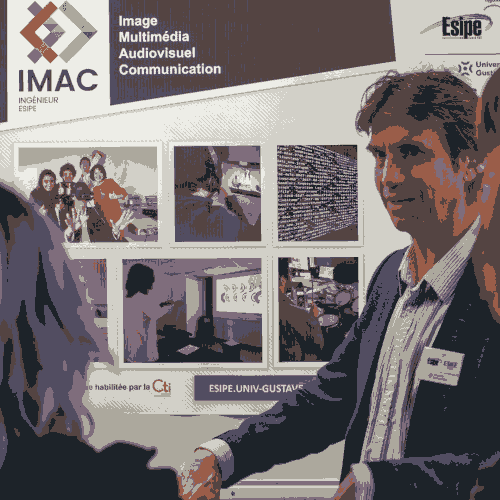
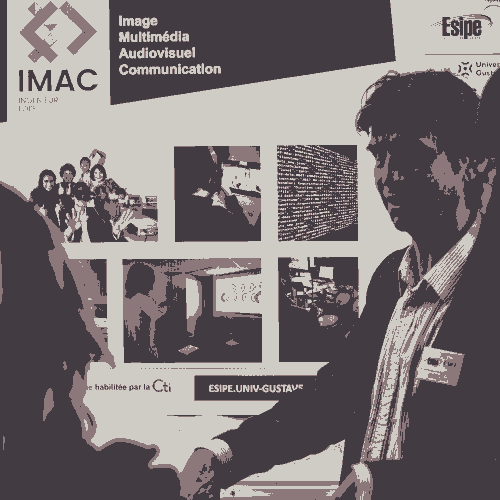
Lucas V8

diff --git a/src/FiltreDeKuwahara/main.cpp b/src/FiltreDeKuwahara/main.cpp
@@ -3,22 +3,35 @@
 #include <array>
 #include <iostream>
 
-float getEcartType(std::vector<glm::vec3> section, int color, float moyenne){
-    float sum{0};
+float getEcartType(std::vector<glm::vec3> & section, glm::vec3 moyenne){
+    glm::vec3 sum{0, 0, 0};
     for(int i{0}; i<section.size(); i++){
-        sum += pow(section[i][color]-moyenne,2);
+        sum += glm::vec3{pow(section[i].r-moyenne.r,2),pow(section[i].b-moyenne.b,2),pow(section[i].g-moyenne.g,2)};
     }
-    sum = pow(sum/section.size(),0.5f);
-    return sum;
+    sum = glm::vec3{pow(sum.r/section.size(),0.5f),pow(sum.g/section.size(),0.5f),pow(sum.b/section.size(),0.5f)};
+    float result{(sum.r+sum.b+sum.g)/3};
+    return result;
 }
 
-float getMoyenne(std::vector<glm::vec3> section, int color){
-    float sum{0};
+glm::vec3 getMoyenne(std::vector<glm::vec3> & section){
+    glm::vec3 sum{0, 0, 0};
     for(int i{0}; i<section.size(); i++){
-        sum += section[i][color];
+        sum += section[i];
     }
     sum /= section.size();
     return sum;
+}
+
+int getIndiceDuMax(std::array<float,4> ecartType){
+    int indiceDuMax{0};
+    float minDeEcartType{1}; 
+    for(int i{0}; i<4; i++){
+        if(ecartType[i]<minDeEcartType){
+            minDeEcartType = ecartType[i];
+            indiceDuMax = i;
+        }
+    }
+    return indiceDuMax;
 }
 
 int main()
@@ -45,55 +58,46 @@ int main()
                     if((yi<0)||(yi>=imageRef.height())){
                         yi = y;
                     }
-                    if((i-intensiteFlou)>0){
-                        if((j-intensiteFlou)>0){
+                    if((i-intensiteFlou)>=0){
+                        if((j-intensiteFlou)>=0){
                             fourthSection.push_back(imageRef.pixel(xi,yi));
                         }
-                        if((j-intensiteFlou)<0){
+                        if((j-intensiteFlou)<=0){
                             thirdSection.push_back(imageRef.pixel(xi,yi));
                         }
                     }
-                    if((i-intensiteFlou)<0){
-                        if((j-intensiteFlou)>0){
+                    if((i-intensiteFlou)<=0){
+                        if((j-intensiteFlou)>=0){
                             secondSection.push_back(imageRef.pixel(xi,yi));
                         }
-                        if((j-intensiteFlou)<0){
+                        if((j-intensiteFlou)<=0){
                             firstSection.push_back(imageRef.pixel(xi,yi));
                         }
                     }
+
                 }
             }
 
             std::array<glm::vec3,4> pixelMoyen{
-                glm::vec3{getMoyenne(firstSection, 0),getMoyenne(firstSection, 1),getMoyenne(firstSection, 2)},
-                glm::vec3{getMoyenne(secondSection, 0),getMoyenne(secondSection, 1),getMoyenne(secondSection, 2)},
-                glm::vec3{getMoyenne(thirdSection, 0),getMoyenne(thirdSection, 1),getMoyenne(thirdSection, 2)},
-                glm::vec3{getMoyenne(fourthSection, 0),getMoyenne(fourthSection, 1),getMoyenne(fourthSection, 2)},
+                glm::vec3{getMoyenne(firstSection)},
+                glm::vec3{getMoyenne(secondSection)},
+                glm::vec3{getMoyenne(thirdSection)},
+                glm::vec3{getMoyenne(fourthSection)},
 
             };
 
             std::array<float,4> ecartType{
-                (getEcartType(firstSection, 0, getMoyenne(firstSection, 0))+getEcartType(firstSection, 1, getMoyenne(firstSection, 1))+getEcartType(firstSection, 2, getMoyenne(firstSection, 2)))/3,
-                (getEcartType(secondSection, 0, getMoyenne(secondSection, 0))+getEcartType(secondSection, 1, getMoyenne(secondSection, 1))+getEcartType(secondSection, 2, getMoyenne(secondSection, 2)))/3,
-                (getEcartType(thirdSection, 0, getMoyenne(thirdSection, 0))+getEcartType(thirdSection, 1, getMoyenne(thirdSection, 1))+getEcartType(thirdSection, 2, getMoyenne(thirdSection, 2)))/3,
-                (getEcartType(fourthSection, 0, getMoyenne(fourthSection, 0))+getEcartType(fourthSection, 1, getMoyenne(fourthSection, 1))+getEcartType(fourthSection, 2, getMoyenne(fourthSection, 2)))/3,
+                getEcartType(firstSection, pixelMoyen[0]),
+                getEcartType(secondSection, pixelMoyen[1]),
+                getEcartType(thirdSection, pixelMoyen[2]),
+                getEcartType(fourthSection, pixelMoyen[3]),
             };
 
-            // for(float a : ecartType){
-            //     std::cout << a << ", ";
-            // }
-            // std::cout << std::endl;
-            int indiceDuMax{0};
-            float minDeEcartType{1};
-            for(int i{0}; i<4; i++){
-                if(ecartType[i]<minDeEcartType){
-                    minDeEcartType = ecartType[i];
-                    indiceDuMax = i;
-                }
-            }
+
+            int indiceDuMax{getIndiceDuMax(ecartType)};
 
             imageOutput.pixel(x,y) = pixelMoyen[indiceDuMax];
         }
     }
-    imageOutput.save("output/exo26.png");
+    imageOutput.save("output/exo26avecModif.png");
 }

diff --git a/src/DiamondSquare/main.cpp b/src/DiamondSquare/main.cpp
@@ -41,40 +41,40 @@ float getBrightness(glm::vec3 & color){
 //     return milieu.y + (Top.y-milieu.y + Bot.y-milieu.y);
 // }
 
-void squareStep(int & chunkSize, int & half, int &heightMapSize, sil::Image & image, float&  scaleRandom, int nbrDeNuance){
+void squareStep(int & chunkSize, int & half, int &heightMapSize, sil::Image & image, float&  scaleRandom){
     for(int x{0}; x<heightMapSize-1; x+=chunkSize){
         for(int y{0}; y<heightMapSize-1; y+=chunkSize){
             float brightnessMiddle{(getBrightness(image.pixel(x,y))+getBrightness(image.pixel(x + chunkSize,y)) + getBrightness(image.pixel(x + chunkSize,y + chunkSize)) + getBrightness(image.pixel(x ,y + chunkSize)))/4};
-            image.pixel(x + half, y + half) = glm::vec3{static_cast<float>(brightnessMiddle)} + glm::vec3{random_float(-scaleRandom,scaleRandom)};
+            image.pixel(x + half, y + half) = glm::vec3{(brightnessMiddle)} + glm::vec3{random_float(-scaleRandom,scaleRandom)};
         }
     }
 }
 
-void diamondStep(int & chunkSize, int & half, int &heightMapSize, sil::Image & image, float&  scaleRandom, int nbrDeNuance){
+void diamondStep(int & chunkSize, int & half, int &heightMapSize, sil::Image & image, float&  scaleRandom){
     for(int x{0}; x<heightMapSize-1; x+=half){
         for(int y{(x+half)%chunkSize}; y<heightMapSize-1; y+=chunkSize){
             if(y-half<0){
                 float brightnessMiddle{(getBrightness(image.pixel(x - half,y)) + getBrightness(image.pixel(x + half,y )) + getBrightness(image.pixel(x ,y + half)))/3};
-                image.pixel(x, y) = glm::vec3{static_cast<float>(brightnessMiddle)} + glm::vec3{random_float(-scaleRandom,scaleRandom)};
+                image.pixel(x, y) = glm::vec3{brightnessMiddle} + glm::vec3{random_float(-scaleRandom,scaleRandom)};
             }
             else if (x-half<0)
             {
                 float brightnessMiddle{(getBrightness(image.pixel(x,y - half)) + getBrightness(image.pixel(x + half,y )) + getBrightness(image.pixel(x ,y + half)))/3};
-                image.pixel(x, y) = glm::vec3{static_cast<float>((brightnessMiddle))} + glm::vec3{random_float(-scaleRandom,scaleRandom)};
+                image.pixel(x, y) = glm::vec3{(brightnessMiddle)} + glm::vec3{random_float(-scaleRandom,scaleRandom)};
             }
             else if (y+half>=image.height())
             {
                 float brightnessMiddle{(getBrightness(image.pixel(x,y - half)) + getBrightness(image.pixel(x - half,y)) + getBrightness(image.pixel(x + half,y )))/3};
-                image.pixel(x , y ) = glm::vec3{static_cast<float>((brightnessMiddle))} + glm::vec3{random_float(-scaleRandom,scaleRandom)};
+                image.pixel(x , y ) = glm::vec3{(brightnessMiddle)} + glm::vec3{random_float(-scaleRandom,scaleRandom)};
             }
             else if (x+half>=image.width())
             {
                 float brightnessMiddle{(getBrightness(image.pixel(x,y - half)) + getBrightness(image.pixel(x - half,y))  + getBrightness(image.pixel(x ,y + half)))/3};
-                image.pixel(x , y ) = glm::vec3{static_cast<float>((brightnessMiddle))} + glm::vec3{random_float(-scaleRandom,scaleRandom)};
+                image.pixel(x , y ) = glm::vec3{(brightnessMiddle)} + glm::vec3{random_float(-scaleRandom,scaleRandom)};
             }
             else{
                 float brightnessMiddle{(getBrightness(image.pixel(x,y - half))+getBrightness(image.pixel(x - half,y)) + getBrightness(image.pixel(x + half,y )) + getBrightness(image.pixel(x ,y + half)))/4};
-                image.pixel(x , y ) = glm::vec3{static_cast<float>((brightnessMiddle))} + glm::vec3{random_float(-scaleRandom,scaleRandom)};
+                image.pixel(x , y ) = glm::vec3{(brightnessMiddle)} + glm::vec3{random_float(-scaleRandom,scaleRandom)};
             }
             
         }
@@ -83,7 +83,7 @@ void diamondStep(int & chunkSize, int & half, int &heightMapSize, sil::Image & i
 
 int main(){
     
-    int tailleDuTableau{11};
+    int tailleDuTableau{9};
 
     sil::Image image{static_cast<int>(pow(2,tailleDuTableau))+1/*width*/, static_cast<int>(pow(2,tailleDuTableau))+1/*height*/};
 
@@ -93,7 +93,7 @@ int main(){
 
 
     int nbrDeNuance{8};
-    float roughness{0.8f};
+    float roughness{2.f};
     
 
     extremP botLef {0, 0, random_int(0,nbrDeNuance)};
@@ -110,8 +110,8 @@ int main(){
 
     while(chunkSize>1){
         int halfOfChunk{chunkSize/2};
-        squareStep(chunkSize, halfOfChunk, heightMapSize, image, roughness, nbrDeNuance);
-        diamondStep(chunkSize, halfOfChunk, heightMapSize, image, roughness, nbrDeNuance);
+        squareStep(chunkSize, halfOfChunk, heightMapSize, image, roughness);
+        diamondStep(chunkSize, halfOfChunk, heightMapSize, image, roughness);
         chunkSize /= 2;
         roughness /= 2;
     }
@@ -141,6 +141,6 @@ int main(){
 
 
 
-    image.save("output/exo28.png");
+    image.save("output/exo28Modif.png");
 
 }

diff --git a/src/KMeans/main.cpp b/src/KMeans/main.cpp
@@ -9,16 +9,15 @@
 int main(){
     sil::Image image{"images/photo.jpg"};
 
-    int const facteurK{8};
+    int const facteurK{3};
     bool stop{false};
     float const facteurIteration{0};
 
-
-    std::array<std::vector<glm::vec2>,facteurK> tableauDeRepartitionDesPixels{};
-    std::array<glm::vec3,facteurK> tableauDesCouleursARetenir{};
+    std::array<std::vector<glm::vec2>,facteurK> positionDesPixelsParZone{};
+    std::array<glm::vec3,facteurK> couleurPixelMoyen{};
 
     for(int i{0}; i<facteurK; i++){
-        tableauDesCouleursARetenir[i] = image.pixel(random_int(0,image.width()-1), random_int(0, image.height()));
+        couleurPixelMoyen[i] = image.pixel(random_int(0,image.width()-1), random_int(0, image.height()));
     }
     
     while(!stop){
@@ -28,32 +27,32 @@ int main(){
                 int indiceToSave{0};
                 float distanceMin{static_cast<float>(image.width()*image.height())};
                 for(int i{0}; i<facteurK; i++){    
-                    float distanceActuelEni{glm::distance(color, tableauDesCouleursARetenir[i])};
+                    float distanceActuelEni{glm::distance(color, couleurPixelMoyen[i])};
                     if(distanceActuelEni<distanceMin){
                         distanceMin = distanceActuelEni;
                         indiceToSave = i;
                     }
                 }
-                tableauDeRepartitionDesPixels[indiceToSave].push_back(glm::vec2{x,y});
+                positionDesPixelsParZone[indiceToSave].push_back(glm::vec2{x,y});
             }
         }
 
-        for(int i{0}; i<tableauDeRepartitionDesPixels.size(); i++){
+        for(int i{0}; i<positionDesPixelsParZone.size(); i++){
             glm::vec3 sum{};
-            for(glm::vec2 coordOfColorInAZone : tableauDeRepartitionDesPixels[i]){
+            for(glm::vec2 coordOfColorInAZone : positionDesPixelsParZone[i]){
                     sum += image.pixel(coordOfColorInAZone[0],coordOfColorInAZone[1]);
             }
-            sum /= static_cast<float>(tableauDeRepartitionDesPixels[i].size());
-            if((abs(sum.r-tableauDesCouleursARetenir[i].r <= facteurIteration))&&(abs(sum.b-tableauDesCouleursARetenir[i].b <= facteurIteration))&&(abs(sum.g-tableauDesCouleursARetenir[i].g <= facteurIteration))){
+            sum /= static_cast<float>(positionDesPixelsParZone[i].size());
+            if((abs(sum.r-couleurPixelMoyen[i].r <= facteurIteration))&&(abs(sum.b-couleurPixelMoyen[i].b <= facteurIteration))&&(abs(sum.g-couleurPixelMoyen[i].g <= facteurIteration))){
                 stop = true;
             }
-            tableauDesCouleursARetenir[i] = sum;
+            couleurPixelMoyen[i] = sum;
         }
     }
 
-    for(int i{0}; i<tableauDeRepartitionDesPixels.size(); i++){
-        for(glm::vec2 couple : tableauDeRepartitionDesPixels[i]){
-            image.pixel(couple[0], couple[1]) = tableauDesCouleursARetenir[i];
+    for(int i{0}; i<positionDesPixelsParZone.size(); i++){
+        for(glm::vec2 couple : positionDesPixelsParZone[i]){
+            image.pixel(couple[0], couple[1]) = couleurPixelMoyen[i];
         }
     }
 

diff --git a/src/Convolution/main.cpp b/src/Convolution/main.cpp
@@ -8,7 +8,7 @@ int main()
     sil::Image imageOutput{"images/photo.jpg"};
     // TODO: modifier l'image
 
-    int intensiteFlou{2};
+    int intensiteFlou{1};
 
     for(int x{0}; x<imageOutput.width(); x++){
         for(int y{0}; y<imageOutput.height(); y++){
